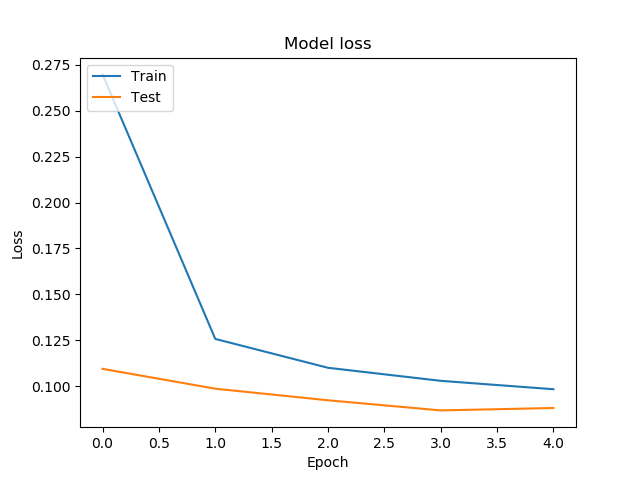
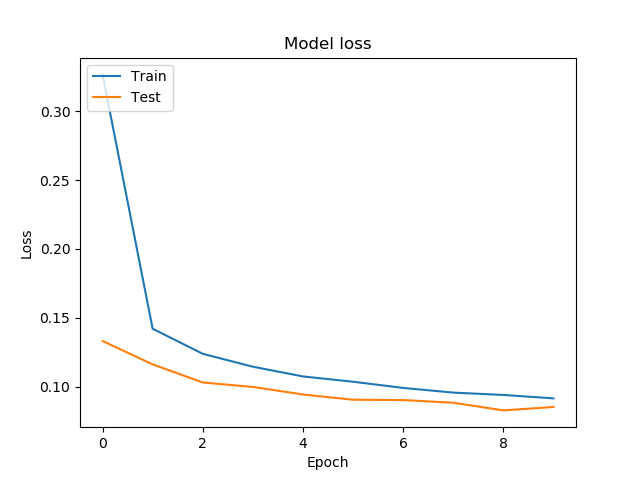
Latest round of training
Former-commit-id: 86dc66dfa8cc318acaa590657cb27fc9fea8a3a4

diff --git a/training.py b/training.py
@@ -9,7 +9,7 @@ import hasy_tools
 import keras
 import matplotlib.pyplot as plt
 import numpy as np
-from keras.layers import MaxPooling2D, Convolution2D, Dropout, Dense, Flatten
+from keras.layers import *
 from keras.models import Sequential, save_model
 from keras.utils import np_utils
 from keras.utils.vis_utils import plot_model
@@ -119,7 +119,7 @@ def load_hasy_data(start=0, classes=None):
             realindices[index] = int(start + i)
             i += 1
 
-    print("Chosen Hasy Class Indices: " + str(indices) + ', Mapping = [' + str(realindices.values) + ']')
+    print("Chosen Hasy Class Indices: " + str(indices) + ', Mapping = [' + str(realindices.values()) + ']')
 
     # Load training data
     training_labels = data['y_train'][:data['x_train'].shape[0]]
@@ -214,14 +214,22 @@ def build_net(num_classes, width=28, height=28):
     input_shape = (height, width, 1)
 
     model = Sequential()
-    model.add(Convolution2D(256, (3, 3), padding='valid', input_shape=input_shape, activation='relu'))
-    model.add(Convolution2D(64, (3, 3), activation='relu'))
+    model.add(Convolution2D(256, (3, 3), padding="same", input_shape=input_shape))
+    model.add(BatchNormalization())
+    model.add(Activation("relu"))
+
+    model.add(Convolution2D(64, (3, 3)))
+    model.add(BatchNormalization())
+    model.add(Activation("relu"))
+
+    #model.add(Convolution2D(256, (3, 3), padding='valid', input_shape=input_shape, activation='relu'))
+    #model.add(Convolution2D(64, (3, 3), activation='relu'))
 
     model.add(MaxPooling2D(pool_size=(2, 2)))
-    model.add(Dropout(rate=0.2))
 
     model.add(Flatten())
-    model.add(Dense(512, activation='relu'))
+    model.add(Dense(256, activation='relu'))
+    model.add(Dropout(rate=0.15))
     model.add(Dense(num_classes, activation='softmax'))
 
     model.compile(loss=keras.losses.categorical_crossentropy,
@@ -254,9 +262,9 @@ def train(model, training_data, mapping, num_classes, batch_size=256, epochs=10,
     y_test = np_utils.to_categorical(y_test, num_classes)
 
     datagen = keras.preprocessing.image.ImageDataGenerator(
-        width_shift_range=0.1,
-        height_shift_range=0.1,
-        zoom_range=0.1,
+        width_shift_range=0.05,
+        height_shift_range=0.05,
+        zoom_range=0.15,
         fill_mode='nearest')
 
     datagen.fit(x_train)
@@ -304,7 +312,7 @@ def train(model, training_data, mapping, num_classes, batch_size=256, epochs=10,
 if __name__ == '__main__':
     parser = argparse.ArgumentParser(usage='Program to train a CNN for symbol detection')
     parser.add_argument('-f', '--file', type=str, help='EMNIST file to use for training', required=True)
-    parser.add_argument('--epochs', type=int, default=5, help='Number of epochs to train on')
+    parser.add_argument('--epochs', type=int, default=10, help='Number of epochs to train on')
     args = parser.parse_args()
 
     bin_dir = os.path.dirname(os.path.realpath(__file__)) + '/bin'
@@ -318,8 +326,7 @@ if __name__ == '__main__':
     emnist_mapping = emnist_data[3]
     print('EMNIST data loaded ' + str(emnist_data[2]) + ' classes')
     hasy_data = load_hasy_data(len(emnist_mapping),
-                               ['+', '-', '\\pi', '\\forall', '\\doteq', '/', '\\neg', '\\ast',
-                                '[', ']'])
+                               ['+', '-', '\\doteq', '/', '\\neg', '\\ast', '[', ']'])
     hasy_mapping = hasy_data[3]
     print('Hasy data loaded ' + str(hasy_data[2]) + ' classes')
 
